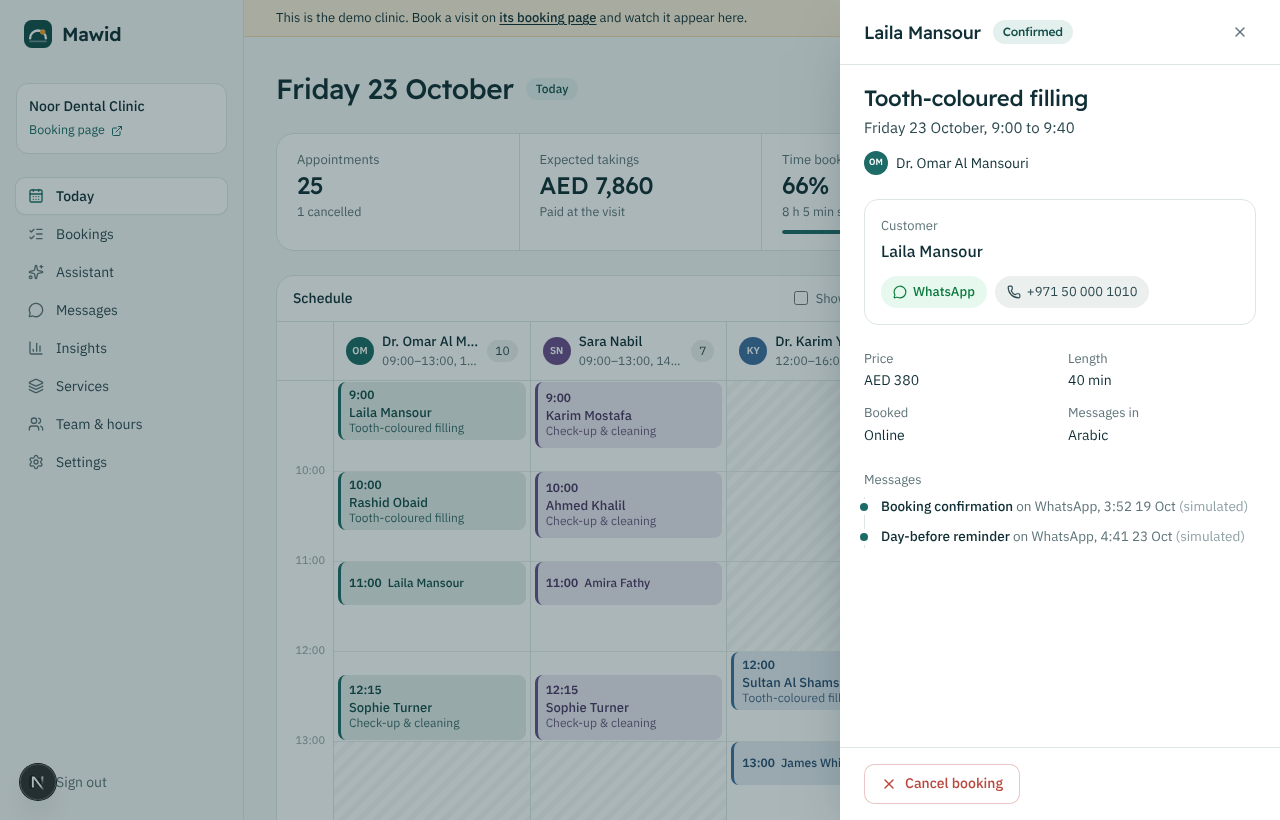
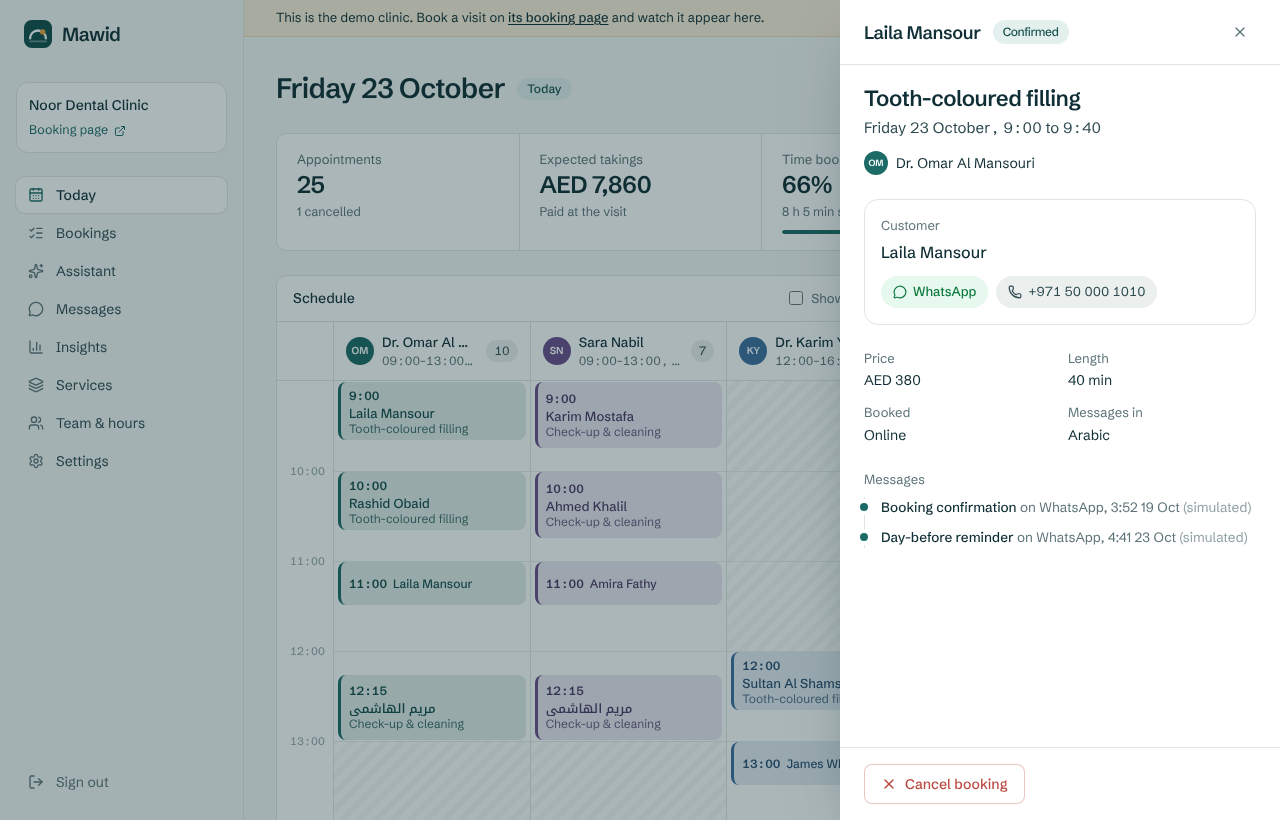
README screens from the live site; proportional figures in slots

diff --git a/src/components/booking/slot-grid.tsx b/src/components/booking/slot-grid.tsx
@@ -52,7 +52,7 @@ export function SlotGrid({
                     aria-checked={isSel}
                     onClick={() => onSelect(s)}
                     className={cn(
-                      "tnum h-11 rounded-control border text-[15px] font-medium whitespace-nowrap transition-[background-color,border-color,color,box-shadow,transform] duration-150 active:scale-[0.96] active:duration-75",
+                      "h-11 rounded-control border text-[15px] font-medium whitespace-nowrap transition-[background-color,border-color,color,box-shadow,transform] duration-150 active:scale-[0.96] active:duration-75",
                       isSel
                         ? "border-saffron bg-saffron text-ink shadow-[0_6px_16px_-8px_rgb(184_116_18/0.7)]"
                         : "border-mist bg-card text-ink hover:border-sea hover:text-sea-deep",

diff --git a/README.md b/README.md
@@ -5,7 +5,7 @@ Online booking, WhatsApp reminders and a live schedule for clinics, salons and s
 **Live demo:** https://mawid-bay.vercel.app
 Open the demo clinic from the home page (no sign-up), or book a visit as a patient at `/b/noor-dental` and watch it land on the schedule.
 
-![Mawid landing page](docs/screenshots/landing.png)
+![Mawid landing page](docs/screenshots/landing.jpg)
 
 ## What it does
 
@@ -21,6 +21,14 @@ Open the demo clinic from the home page (no sign-up), or book a visit as a patie
 - **Messages:** the outbox of everything sent to patients, in their language.
 - **Insights:** appointments per day, busiest hours, no-show rate, where bookings came from, how full each person's week was.
 - **Services, Team & hours, Settings:** bilingual services, shifts and breaks, time off, booking rules, the booking link with a QR code.
+
+## Screens
+
+| Booking page (Arabic, RTL) | Today, the front desk |
+|---|---|
+| ![Booking page](docs/screenshots/booking-desktop-ar.jpg) | ![Today](docs/screenshots/dashboard-today.png) |
+| **Insights** | **A booking, with its message trail** |
+| ![Insights](docs/screenshots/dashboard-insights.png) | ![Booking sheet](docs/screenshots/dashboard-booking-sheet.png) |
 
 ## How it's built
 
